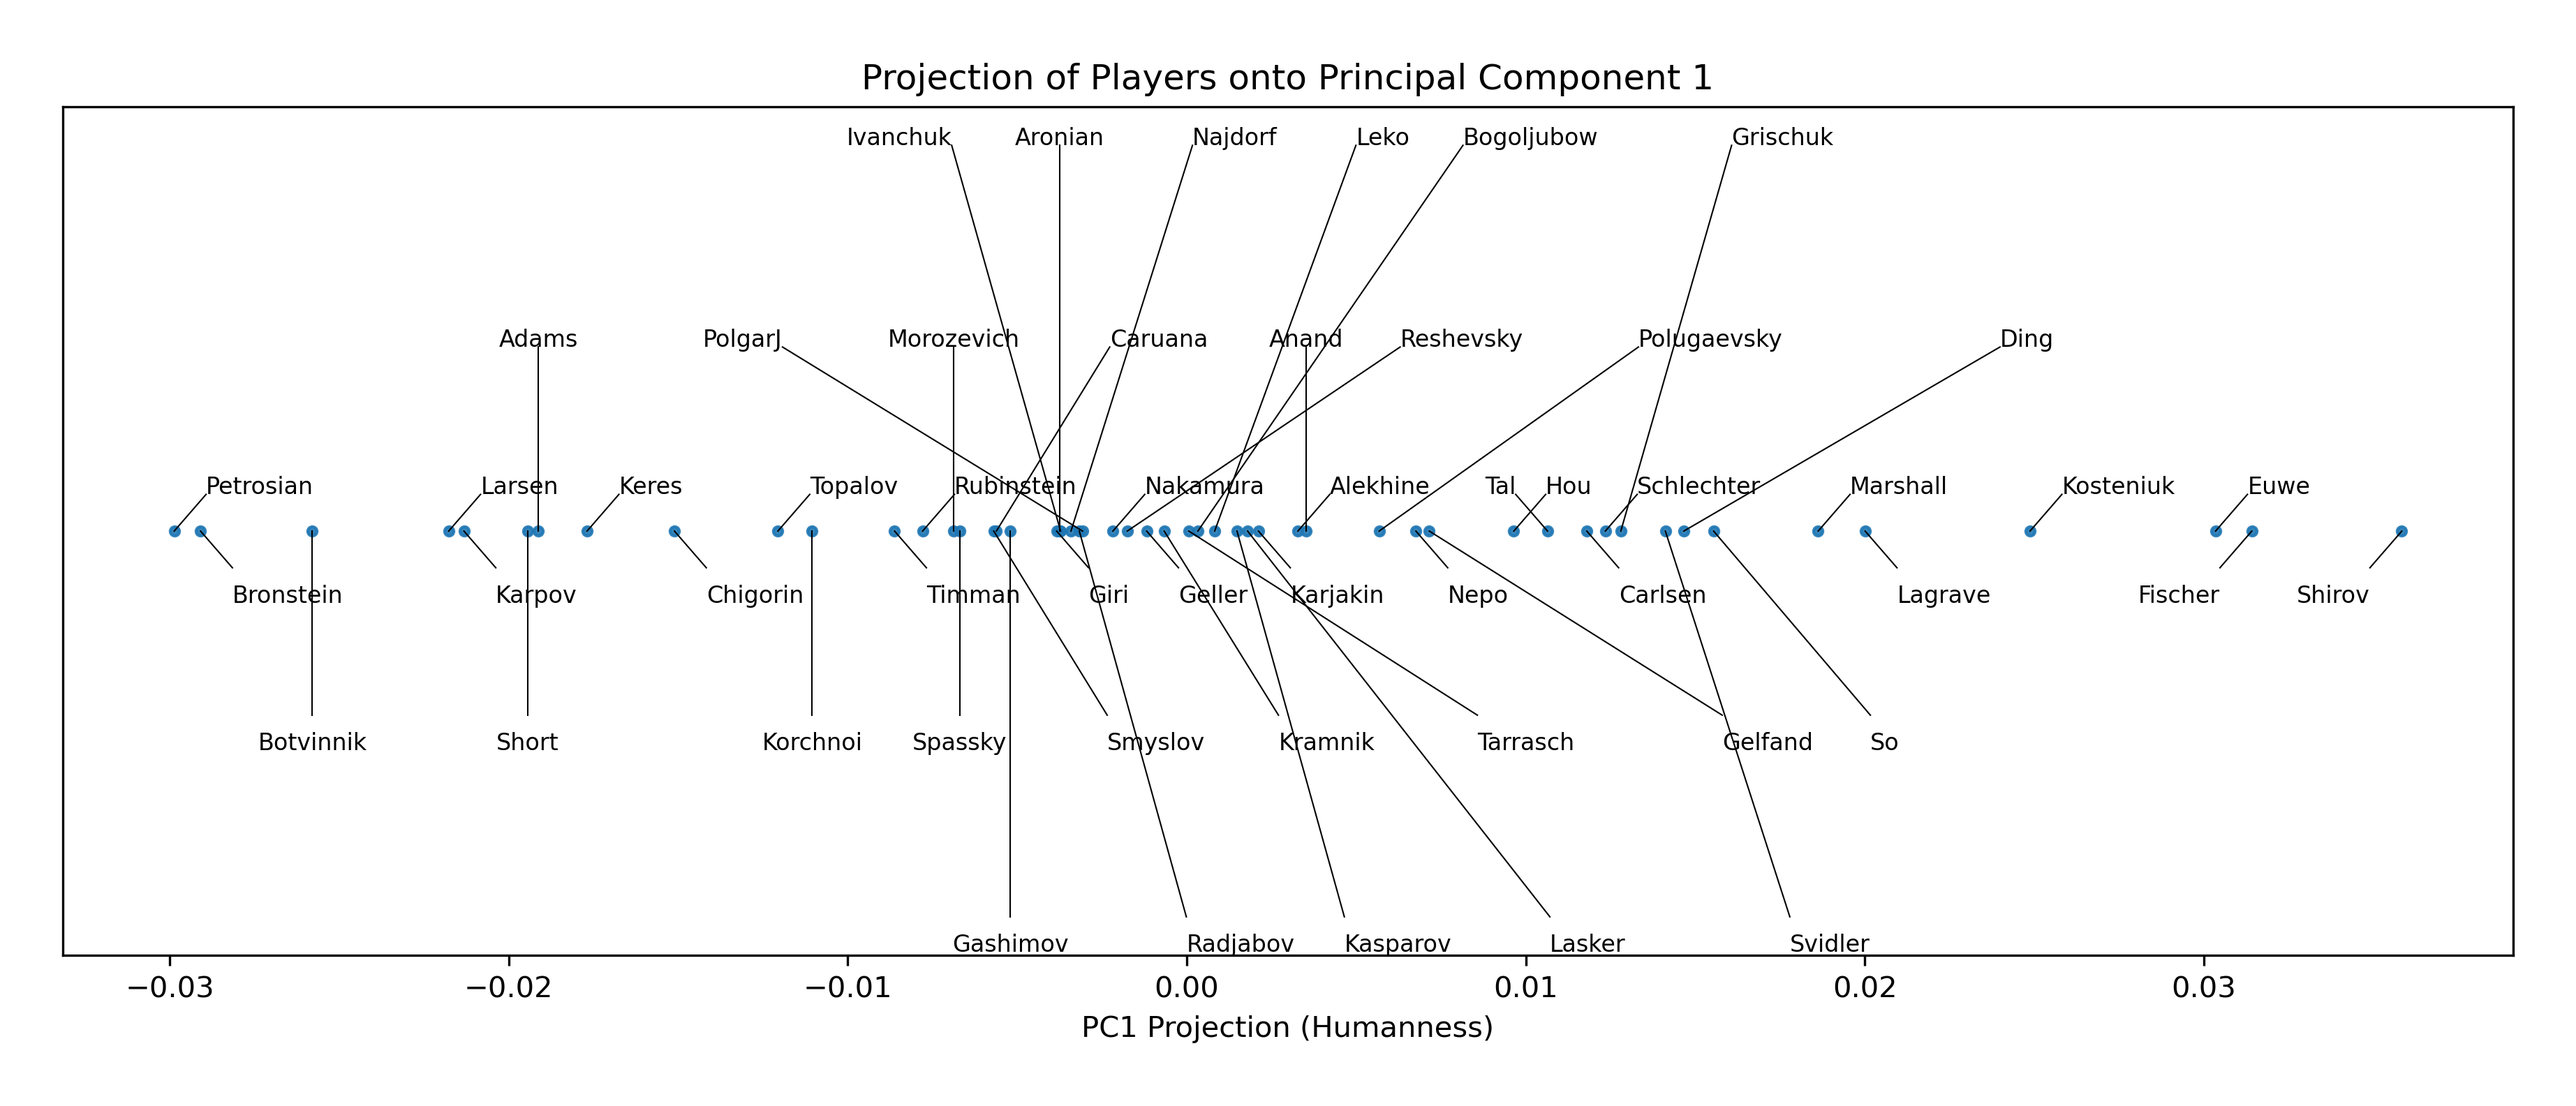
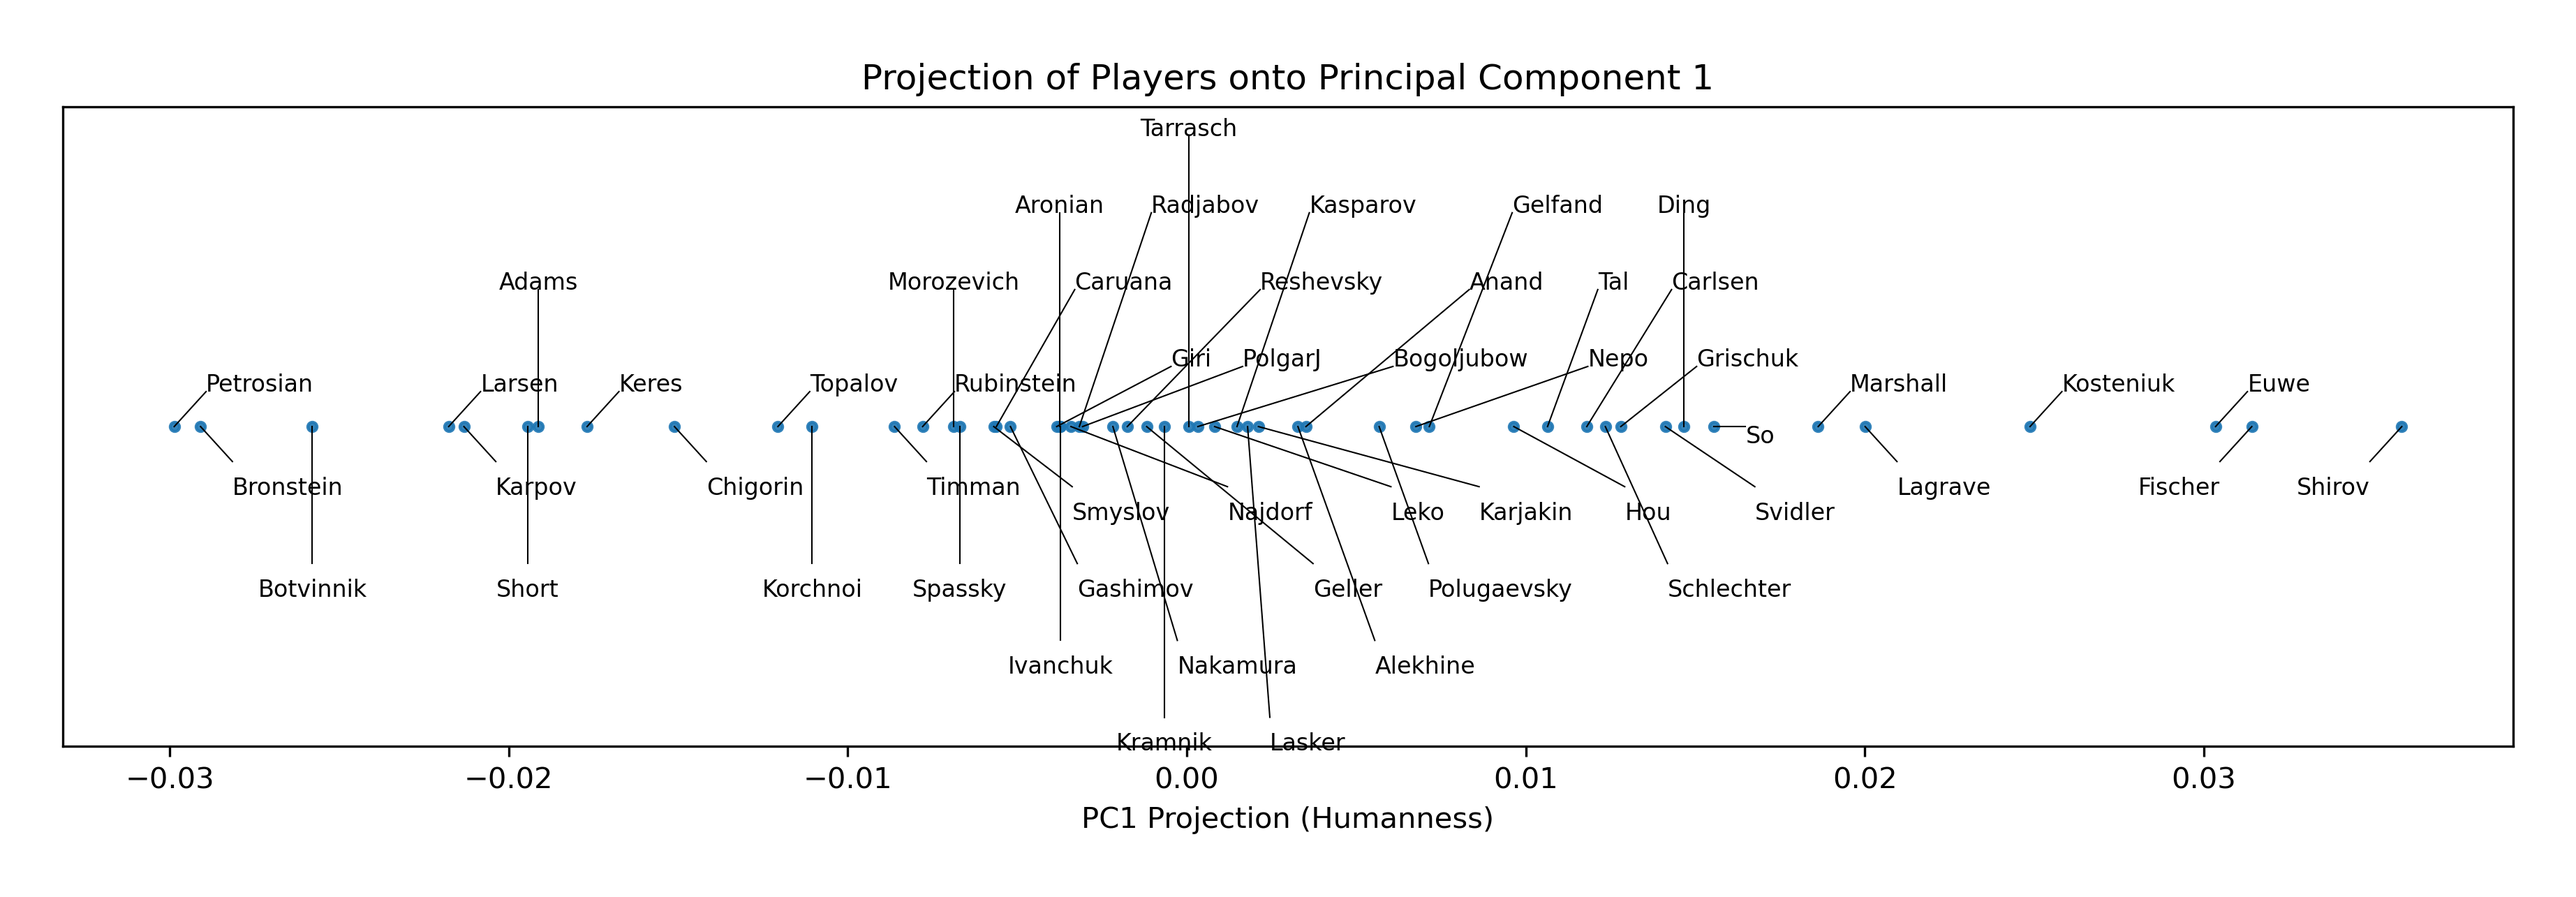
Update pc1 plot dimensions

diff --git a/analysis/plot_pc1.py b/analysis/plot_pc1.py
@@ -31,13 +31,13 @@ names_sorted   = [n for _, n in sorted_pairs]
 
 zeros = np.zeros(len(pc1_sorted))
 
-fig, ax = plt.subplots(figsize=(12, 5))
+fig, ax = plt.subplots(figsize=(12, 4))
 ax.scatter(pc1_sorted, zeros, s=10, alpha=0.9)
 
 ta.allocate(ax, pc1_sorted, zeros, names_sorted,
             x_scatter=pc1_sorted, y_scatter=zeros,
             textsize=8, draw_lines=True, linecolor='black', linewidth=0.5,
-            max_distance=0.5)
+            max_distance=0.2)
 
 ax.set_yticks([])
 ax.set_xlabel('PC1 Projection (Humanness)')
